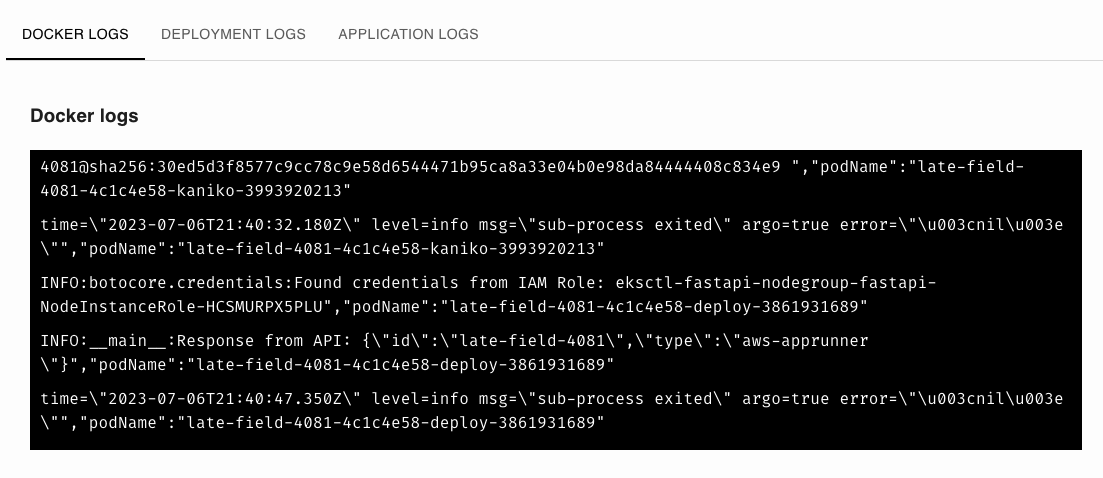
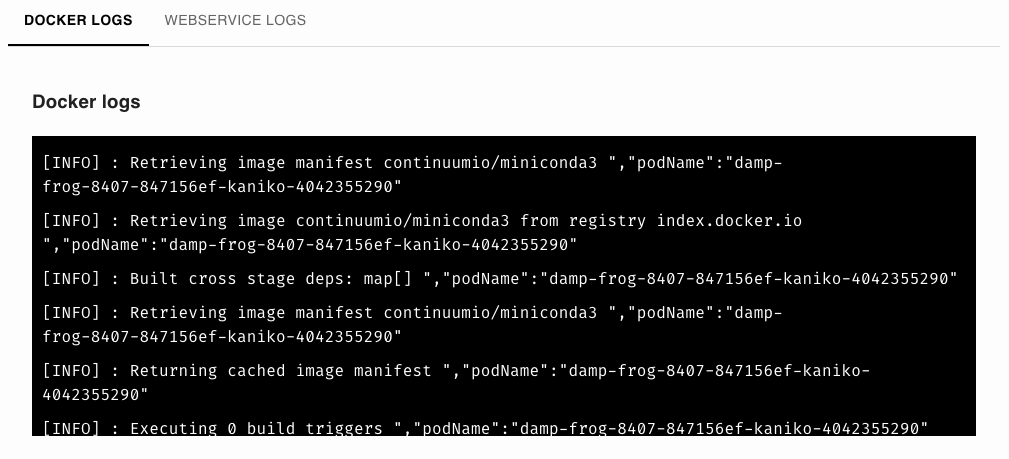
updates docs due to ecs migration + adds invoke setup command

Changed region(s): [[0.0, 0.2135, 0.9832, 0.976], [0.0, 0.0305, 0.3072, 0.1525], [0.3072, 0.061, 0.4301, 0.0915]]

diff --git a/tasks.py b/tasks.py
@@ -2,6 +2,16 @@ from invoke import task
 
 
 @task
+def setup(c, version=None):
+    """
+    Setup dev environment, requires conda
+    """
+    env_name = f"cloud-doc"
+    c.run(f"conda env create --file environment.yml --name {env_name}")
+    print(f"Done! Activate your environment with:\nconda activate {env_name}")
+
+
+@task
 def build(c):
     """Build the documentation."""
     c.run("jupyter-book build doc")

diff --git a/doc/quickstart/dashboard.md b/doc/quickstart/dashboard.md
@@ -12,20 +12,23 @@
 
 ## 3. Wait for the deployment to finish
 
-You'll see three tabs. First, you'll see the `DOCKER LOGS`, which show the progress of installing your dashboards's dependencies:
+You'll see two tabs. First, you'll see the `DOCKER LOGS`, which show the progress of installing your dashboards's dependencies:
 
 ![](../static/dashboards-logs.png)
 
-After a minute or so, you'll start to see the `DEPLOYMENT LOGS`, which will show you the deployment progress. The first deployment takes about 2 minutes.
-
-When you see something like this in the `DEPLOYMENT LOGS`:
+After 1-2 minutes (depends on the number of dependencies), you'll see a message like this:
 
 ```
-Deployment with ID : {some id} completed successfully.
+[INFO] : Pushing image to XYZ ","podName":"ABC"
+[INFO] : Pushed XYZ ","podName":"ABC"
 ```
 
-It means your application has finished deployment. Scroll up and click on "View Dashboard" to to open your dashboard!
+Which the Docker image has been built. After a few seconds you'll see that the `VIEW DASHBOARD` button in the top right becomes available:
 
 ![](../static/dashboards-view.png)
 
-Whenever someone opens your dashboard, you'll see new log entries in `APPLICATION LOGS`.
+Click on it to see your dashboard!
+
+```{important}
+If you see a `Service not available` error when clicking on `VIEW DASHBOARD`, wait for a few seconds and try again (remember to remove your browser's cache)
+```

diff --git a/doc/dashboards/jupyterlab-plugin.md b/doc/dashboards/jupyterlab-plugin.md
@@ -1,6 +1,10 @@
 # JupyterLab plugin
 
 ```{important}
+The JupyterLab plugin is not temporarily available, use the [web interface](../quickstart/dashboard.md).
+```
+
+```{important}
 The plugin **is not** compatible with JupyterLab `4.x`, ensure you're running `3.x`: `pip install "jupyterlab<4"`
 
 This guide was tested with `jupysql-plugin==0.1.6`
